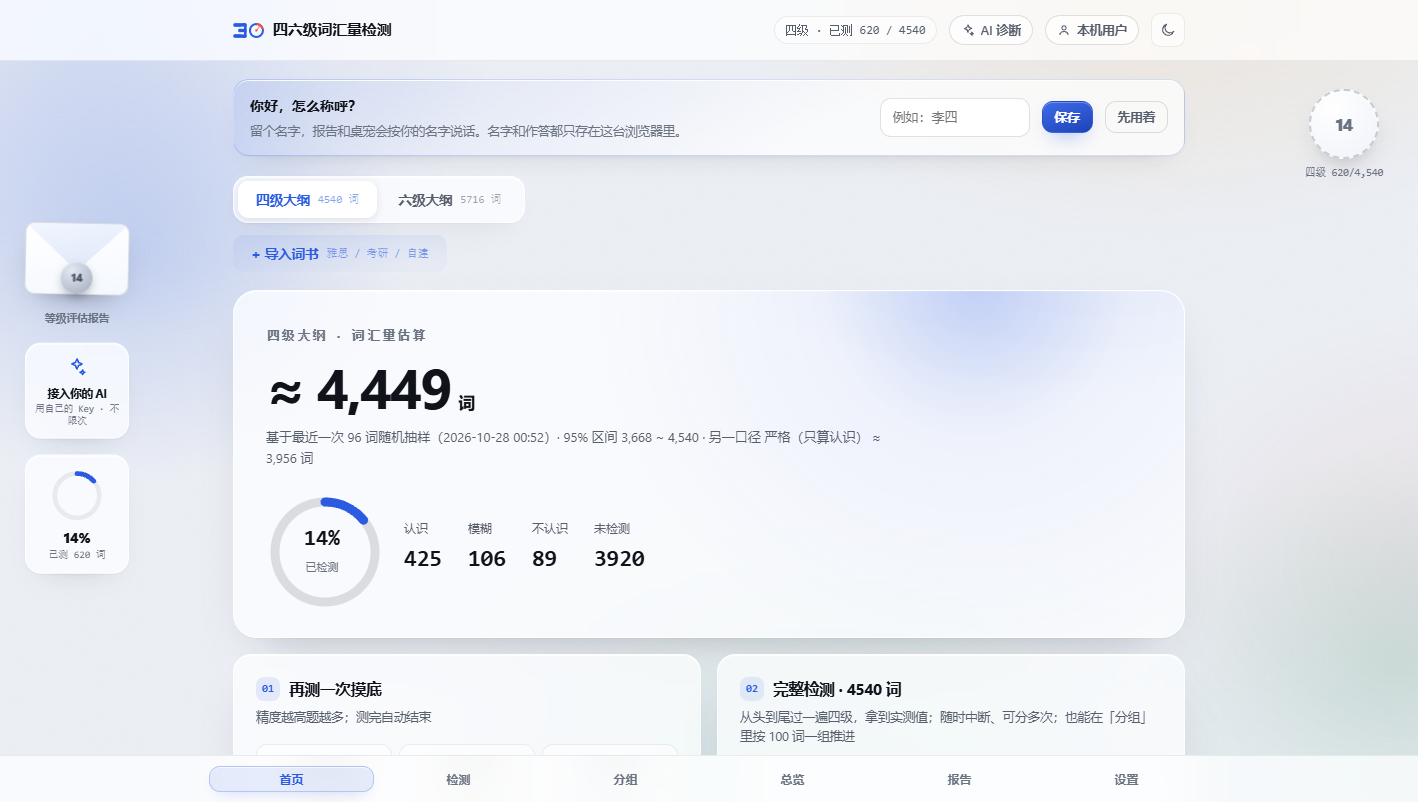
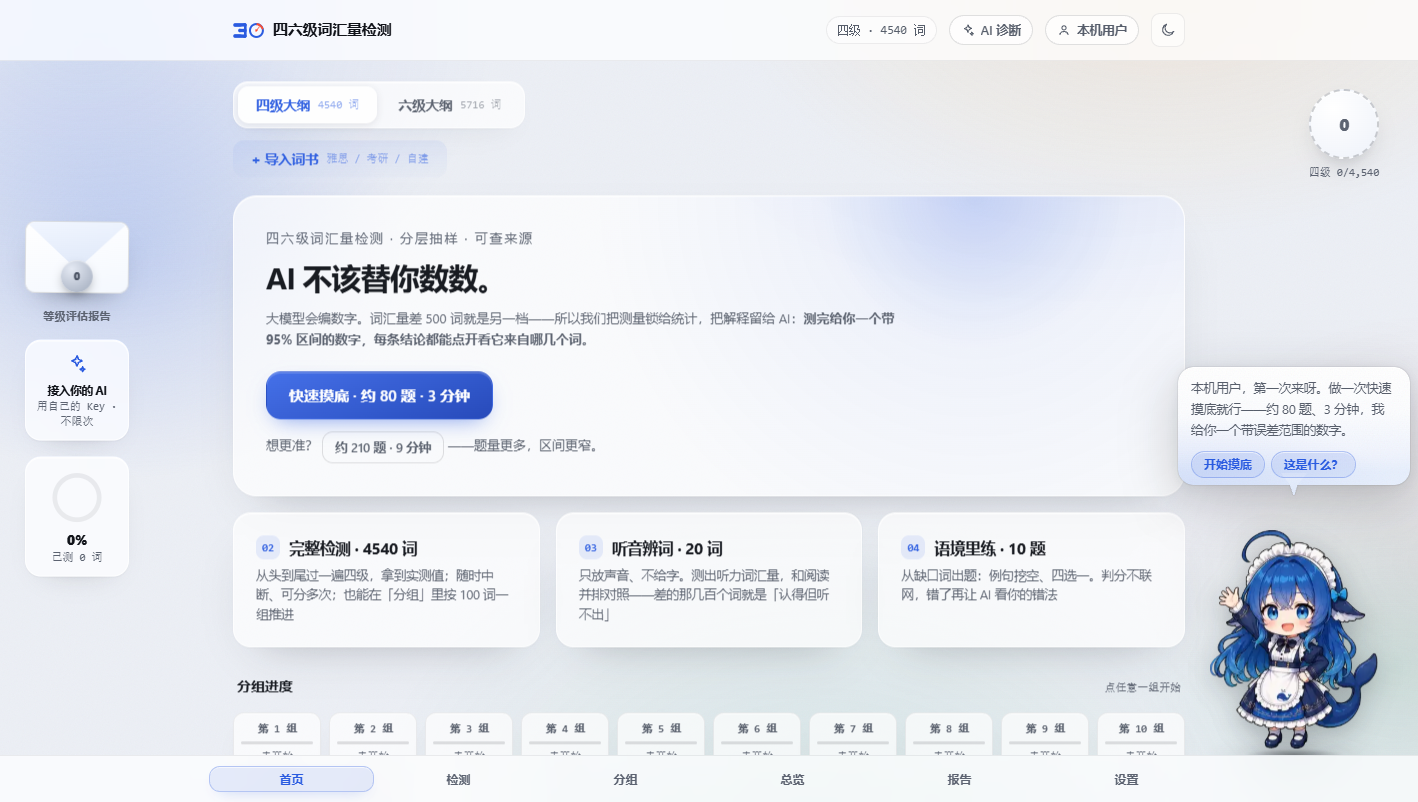
docs(readme): 截图按当前版本重拍，补听音辨词/语境练习/战略地图
旧截图是 10-28 的，早于 AI 计划面板、双模态练习与词汇战略地图。这次用 CDP 驱动真实页面重拍：首页、总览、AI 诊断、地图、听音辨词、语境练习。

diff --git a/README.md b/README.md
@@ -250,9 +250,13 @@
 | --- | --- | --- |
 | ![首屏](docs/screenshots/01-home.png) | ![答题](docs/screenshots/02-testing.png) | ![报告](docs/screenshots/03-report.png) |
 
-| 词汇地图与频段剖面 | AI 诊断（工具调用可视化） | 例句与释义 |
+| 总览与频段剖面 | AI 诊断（计划 + 工具调用可视化） | 词汇战略地图 |
 | --- | --- | --- |
-| ![总览](docs/screenshots/04-overview.png) | ![AI](docs/screenshots/05-ai-diagnose.png) | ![例句](docs/screenshots/06-example.png) |
+| ![总览](docs/screenshots/04-overview.png) | ![AI](docs/screenshots/05-ai-diagnose.png) | ![地图](docs/screenshots/07-map.png) |
+
+| 听音辨词（只放音不给字） | 语境里练（例句挖空四选一） | 例句与释义 |
+| --- | --- | --- |
+| ![听音辨词](docs/screenshots/08-listen.png) | ![语境练习](docs/screenshots/09-drill.png) | ![例句](docs/screenshots/06-example.png) |
 
 **回访卡**（距上次检测满 3 天出现，不遮挡、可永久关闭）：
 
